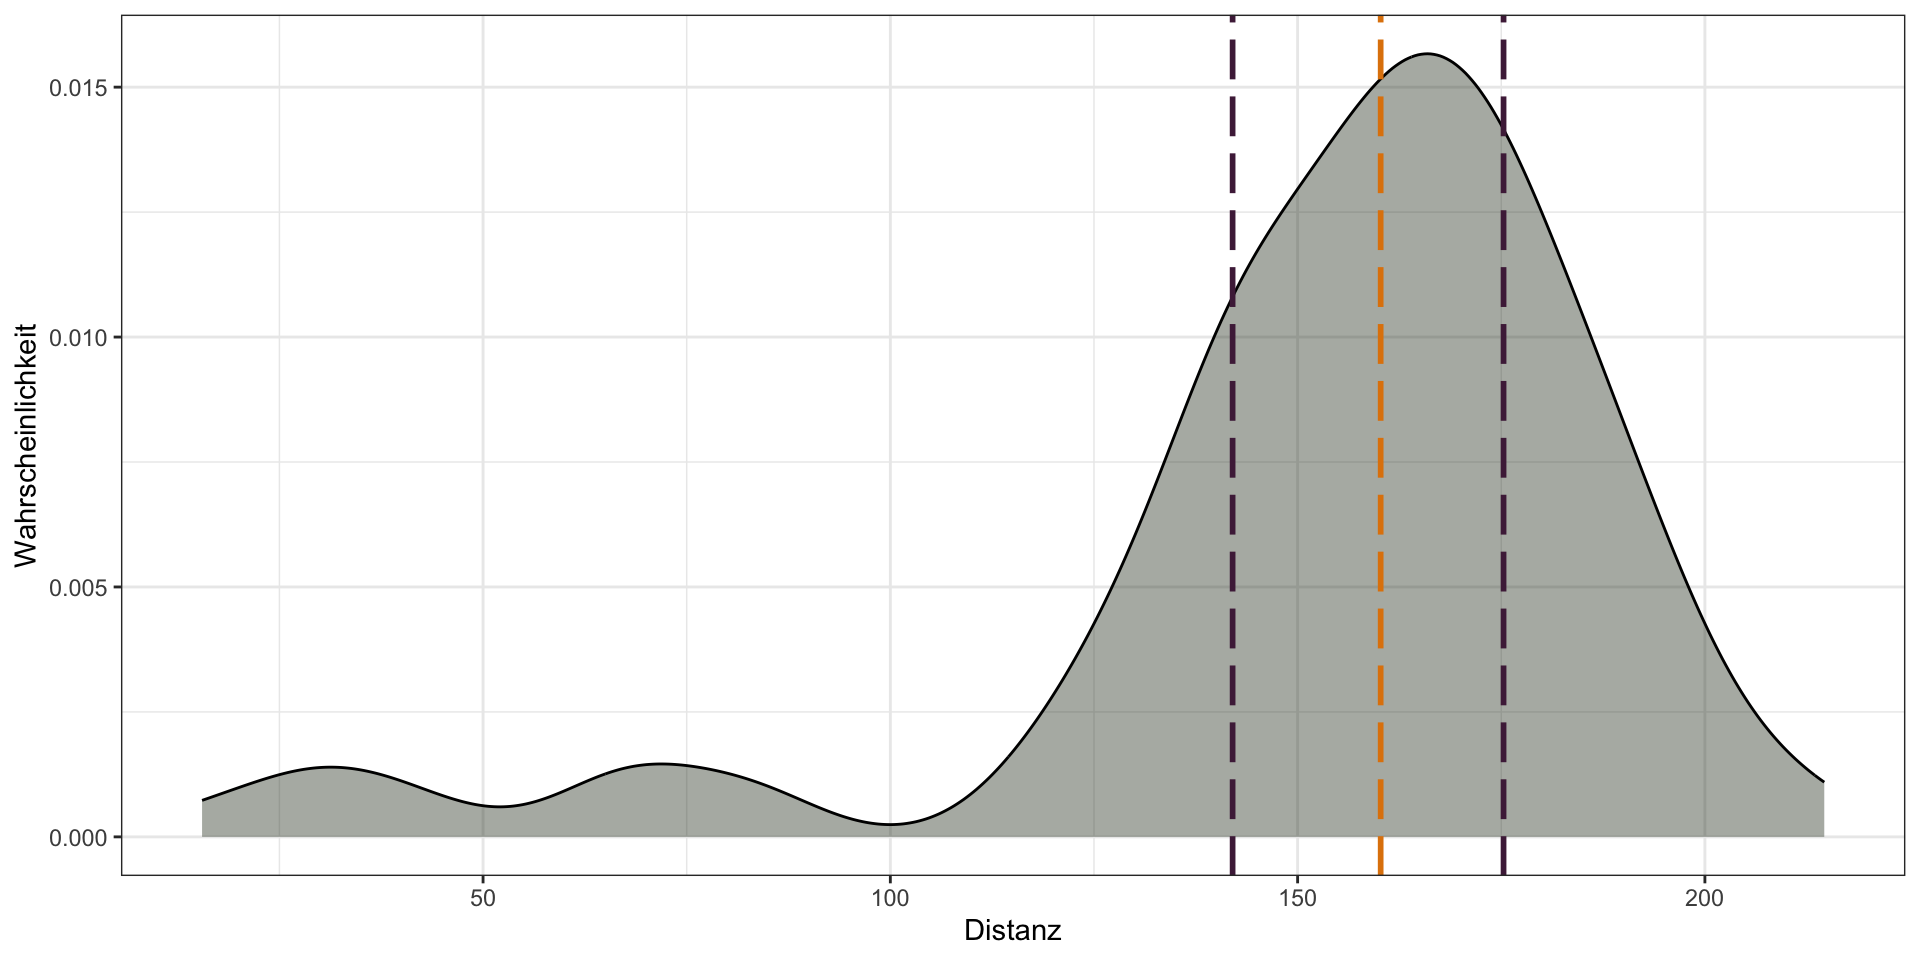
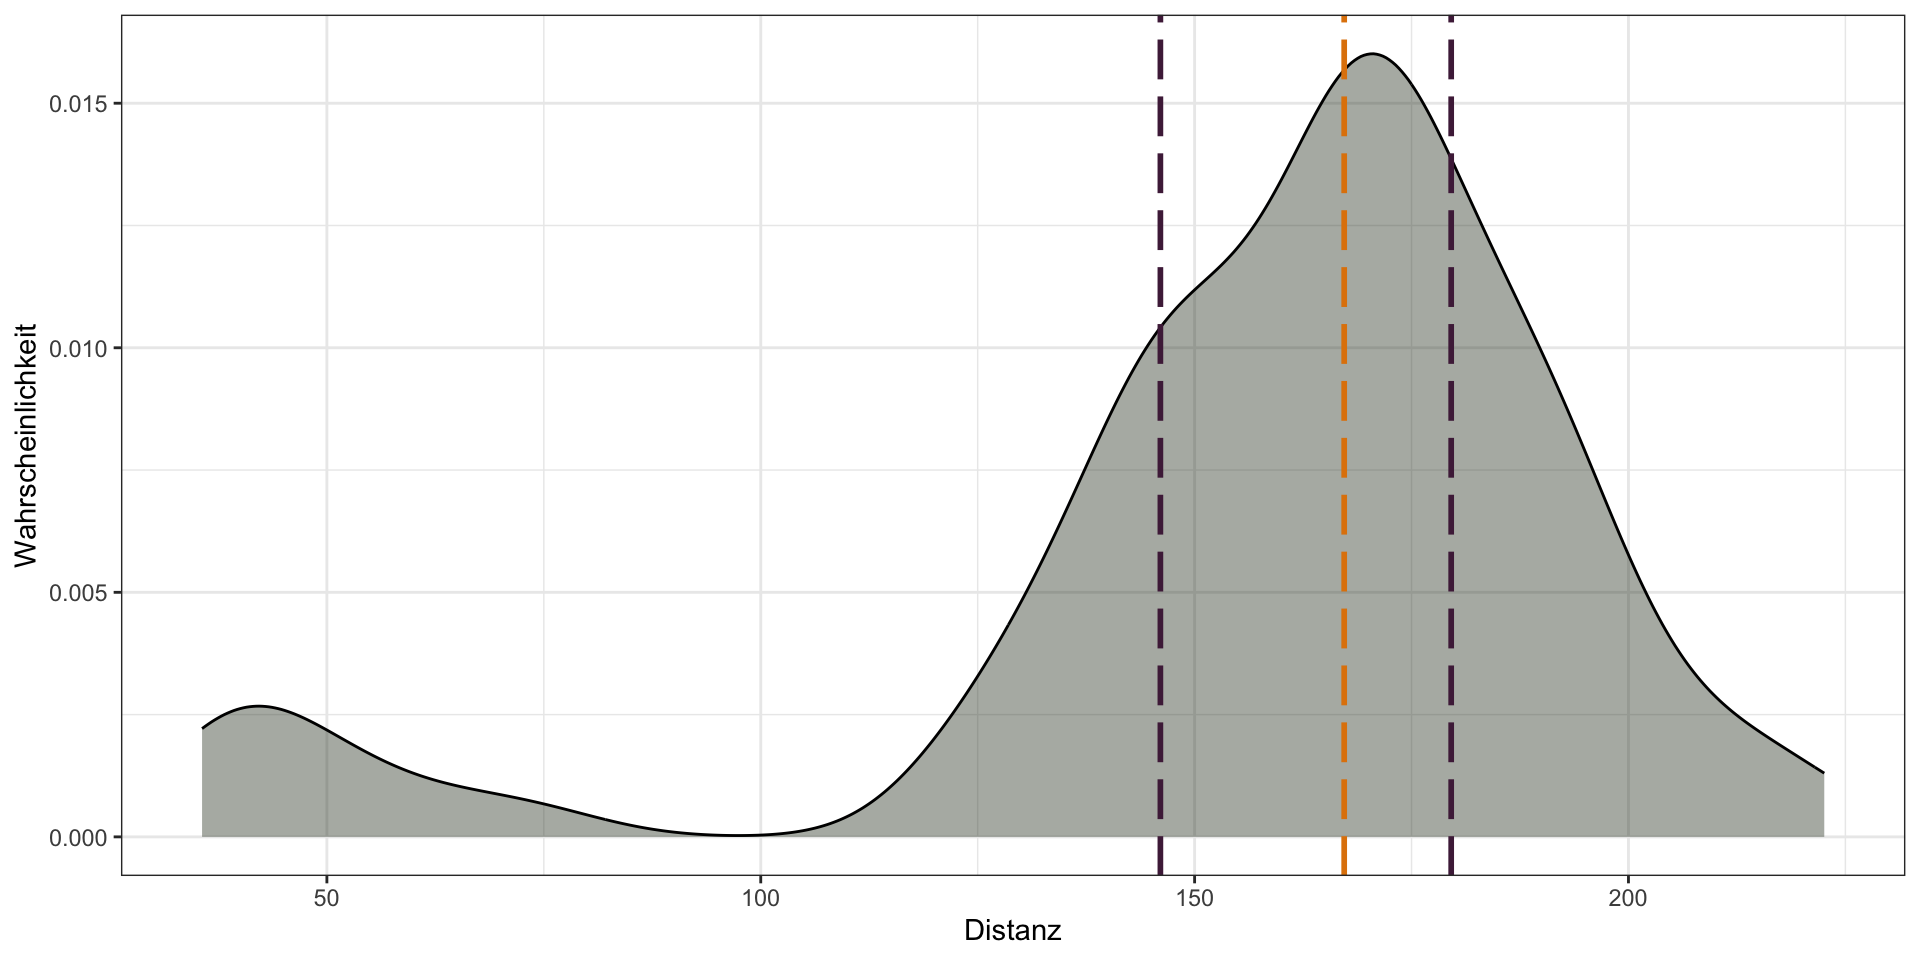
finish slides w3

diff --git a/docs/Sitzung_3.html b/docs/Sitzung_3.html
@@ -271,106 +271,106 @@ Eva Scheel
 <div class="cell">
 <div class="cell-output cell-output-stdout">
 <pre><code>    groesse_cm
-1        144.6
-2        162.4
-3        118.1
-4        128.5
-5        146.8
-6        134.2
-7        128.3
-8        147.1
-9        144.5
-10       142.3
-11       130.8
-12       131.9
-13       138.6
-14       138.0
-15       135.6
-16       127.0
-17       119.8
-18       126.5
-19       134.4
-20       149.2
-21       139.6
-22       141.8
-23       145.0
-24       145.3
-25       142.0
-26       138.4
-27       129.9
-28       133.4
-29       124.7
-30       139.9
-31       139.0
-32       140.0
-33       138.1
-34       151.4
-35       129.9
-36       149.2
-37       141.5
-38       141.7
-39       141.7
-40       134.4
-41       144.1
-42       115.9
-43       129.3
-44       135.1
-45       139.2
-46       151.7
-47       148.2
-48       129.6
-49       138.1
-50       132.8
-51       154.6
-52       123.9
-53       132.4
-54       139.1
-55       130.4
-56       124.9
-57       130.7
-58       130.3
-59       151.7
-60       143.1
-61       148.1
-62       131.5
-63       134.6
-64       159.4
-65       139.6
-66       144.5
-67       133.1
-68       123.5
-69       136.0
-70       143.9
-71       154.5
-72       140.6
-73       136.1
-74       147.1
-75       129.5
-76       120.9
-77       137.4
-78       134.7
-79       136.6
-80       128.9
-81       138.4
-82       150.7
-83       121.4
-84       131.7
-85       142.1
-86       159.2
-87       142.8
-88       132.8
-89       132.1
-90       145.2
-91       133.7
-92       137.9
-93       130.4
-94       156.6
-95       153.1
-96       137.9
-97       144.4
-98       141.8
-99       146.4
-100      137.1</code></pre>
+1        144.3
+2        142.1
+3        133.0
+4        130.3
+5        146.9
+6        128.7
+7        137.5
+8        133.2
+9        134.0
+10       139.2
+11       130.7
+12       157.1
+13       141.4
+14       124.0
+15       135.9
+16       123.6
+17       139.2
+18       146.4
+19       131.6
+20       143.4
+21       132.6
+22       141.9
+23       140.0
+24       147.8
+25       139.2
+26       139.6
+27       147.2
+28       126.9
+29       130.2
+30       147.2
+31       146.2
+32       131.9
+33       150.2
+34       155.7
+35       140.7
+36       146.7
+37       134.4
+38       133.0
+39       137.5
+40       123.5
+41       125.8
+42       138.6
+43       135.4
+44       147.4
+45       151.6
+46       146.0
+47       147.7
+48       148.9
+49       143.7
+50       135.6
+51       139.1
+52       132.4
+53       142.3
+54       153.5
+55       133.4
+56       147.8
+57       122.7
+58       121.3
+59       143.1
+60       154.1
+61       122.2
+62       139.4
+63       146.3
+64       126.7
+65       137.8
+66       145.8
+67       154.3
+68       144.2
+69       129.0
+70       141.4
+71       154.8
+72       135.1
+73       136.7
+74       125.7
+75       138.1
+76       161.2
+77       150.0
+78       138.0
+79       131.4
+80       145.0
+81       131.0
+82       133.8
+83       133.7
+84       144.0
+85       148.4
+86       147.5
+87       135.0
+88       136.3
+89       145.6
+90       127.8
+91       120.1
+92       120.3
+93       149.3
+94       146.0
+95       149.7
+96       149.8
+97       102.8
+98       135.2
+99       145.5
+100      128.9</code></pre>
 </div>
 </div>
 </div><div class="column">
@@ -379,10 +379,10 @@ Eva Scheel
 <pre><code>[1] "Anzahl Schüler:innen: 100"</code></pre>
 </div>
 <div class="cell-output cell-output-stdout">
-<pre><code>[1] "Höchstwert: 115.9"</code></pre>
+<pre><code>[1] "Höchstwert: 102.8"</code></pre>
 </div>
 <div class="cell-output cell-output-stdout">
-<pre><code>[1] "Tiefstwert: 162.4"</code></pre>
+<pre><code>[1] "Tiefstwert: 161.2"</code></pre>
 </div>
 </div>
 </div></div>
@@ -395,7 +395,7 @@ Eva Scheel
 <div class="cell">
 <div class="code-copy-outer-scaffold"><div class="sourceCode cell-code" id="cb5"><pre class="sourceCode numberSource r number-lines code-with-copy"><code class="sourceCode r"><span id="cb5-1"><a></a><span class="fu">mean</span>(heights<span class="sc">$</span>groesse_cm)</span></code></pre></div><button title="Copy to Clipboard" class="code-copy-button"><i class="bi"></i></button></div>
 <div class="cell-output cell-output-stdout">
-<pre><code>[1] 138.168</code></pre>
+<pre><code>[1] 138.791</code></pre>
 </div>
 </div>
 <p>Bezeichnung: <span class="math inline">\(M=`m`\)</span> oder <span class="math inline">\(\bar{x}\)</span></p>
@@ -423,21 +423,21 @@ Eva Scheel
 </div>
 <div class="code-copy-outer-scaffold"><div class="sourceCode cell-code" id="cb9"><pre class="sourceCode numberSource r number-lines code-with-copy"><code class="sourceCode r"><span id="cb9-1"><a></a>sorted_heights</span></code></pre></div><button title="Copy to Clipboard" class="code-copy-button"><i class="bi"></i></button></div>
 <div class="cell-output cell-output-stdout">
-<pre><code>  [1] 115.9 118.1 119.8 120.9 121.4 123.5 123.9 124.7 124.9 126.5 127.0 128.3
- [13] 128.5 128.9 129.3 129.5 129.6 129.9 129.9 130.3 130.4 130.4 130.7 130.8
- [25] 131.5 131.7 131.9 132.1 132.4 132.8 132.8 133.1 133.4 133.7 134.2 134.4
- [37] 134.4 134.6 134.7 135.1 135.6 136.0 136.1 136.6 137.1 137.4 137.9 137.9
- [49] 138.0 138.1 138.1 138.4 138.4 138.6 139.0 139.1 139.2 139.6 139.6 139.9
- [61] 140.0 140.6 141.5 141.7 141.7 141.8 141.8 142.0 142.1 142.3 142.8 143.1
- [73] 143.9 144.1 144.4 144.5 144.5 144.6 145.0 145.2 145.3 146.4 146.8 147.1
- [85] 147.1 148.1 148.2 149.2 149.2 150.7 151.4 151.7 151.7 153.1 154.5 154.6
- [97] 156.6 159.2 159.4 162.4</code></pre>
+<pre><code>  [1] 102.8 120.1 120.3 121.3 122.2 122.7 123.5 123.6 124.0 125.7 125.8 126.7
+ [13] 126.9 127.8 128.7 128.9 129.0 130.2 130.3 130.7 131.0 131.4 131.6 131.9
+ [25] 132.4 132.6 133.0 133.0 133.2 133.4 133.7 133.8 134.0 134.4 135.0 135.1
+ [37] 135.2 135.4 135.6 135.9 136.3 136.7 137.5 137.5 137.8 138.0 138.1 138.6
+ [49] 139.1 139.2 139.2 139.2 139.4 139.6 140.0 140.7 141.4 141.4 141.9 142.1
+ [61] 142.3 143.1 143.4 143.7 144.0 144.2 144.3 145.0 145.5 145.6 145.8 146.0
+ [73] 146.0 146.2 146.3 146.4 146.7 146.9 147.2 147.2 147.4 147.5 147.7 147.8
+ [85] 147.8 148.4 148.9 149.3 149.7 149.8 150.0 150.2 151.6 153.5 154.1 154.3
+ [97] 154.8 155.7 157.1 161.2</code></pre>
 </div>
 </div>
 <div class="cell">
 <div class="code-copy-outer-scaffold"><div class="sourceCode cell-code" id="cb11"><pre class="sourceCode numberSource r number-lines code-with-copy"><code class="sourceCode r"><span id="cb11-1"><a></a><span class="fu">median</span>(heights<span class="sc">$</span>groesse_cm)</span></code></pre></div><button title="Copy to Clipboard" class="code-copy-button"><i class="bi"></i></button></div>
 <div class="cell-output cell-output-stdout">
-<pre><code>[1] 138.1</code></pre>
+<pre><code>[1] 139.2</code></pre>
 </div>
 </div>
 
@@ -464,9 +464,9 @@ Eva Scheel
 <div class="cell-output cell-output-stdout">
 <pre><code>
    Biologie      Chemie     Deutsch    Englisch Französisch  Mathematik 
-         17          20          20          14          11          22 
+         14          14          14          18          13          16 
       Musik      Physik       Sport 
-         17          17          12 </code></pre>
+         25          17          19 </code></pre>
 </div>
 </div>
 <p>Anzahl Schüler:innen pro Hobby:</p>
@@ -474,9 +474,9 @@ Eva Scheel
 <div class="cell-output cell-output-stdout">
 <pre><code>
      Backgammon       Hula_Hoop      Kanufahren Modelleisenbahn         Posaune 
-             22              18              29              30              35 
+             18              21              34              27              23 
    Seilspringen 
-             16 </code></pre>
+             27 </code></pre>
 </div>
 </div>
 <p><span class="absolute" style="font-size: 70%; color: #6f5c7dea; bottom: 10px; ">*Erfundener Datensatz!</span></p>
@@ -496,19 +496,19 @@ Eva Scheel
 <div class="cell-output cell-output-stdout">
 <pre><code>                 
                   Biologie Chemie Deutsch Englisch Französisch Mathematik Musik
-  Backgammon             2      4       2        0           3          5     2
-  Hula_Hoop              2      3       1        3           1          4     1
-  Kanufahren             1      6       4        3           3          2     3
-  Modelleisenbahn        3      3       4        3           1          2     7
-  Posaune                6      3       7        4           1          8     2
-  Seilspringen           3      1       2        1           2          1     2
+  Backgammon             1      1       0        2           3          2     5
+  Hula_Hoop              1      0       3        4           1          2     4
+  Kanufahren             4      0       2        7           3          3     8
+  Modelleisenbahn        3      2       3        1           2          4     5
+  Posaune                1      3       3        1           3          2     2
+  Seilspringen           4      8       3        3           1          3     1
                  
                   Physik Sport
-  Backgammon           3     1
-  Hula_Hoop            2     1
+  Backgammon           1     3
+  Hula_Hoop            3     3
   Kanufahren           4     3
-  Modelleisenbahn      4     3
-  Posaune              2     2
+  Modelleisenbahn      2     5
+  Posaune              5     3
   Seilspringen         2     2</code></pre>
 </div>
 </div>
@@ -755,6 +755,7 @@ SD = \sqrt{\frac{\sum (x-\bar{x})^2}{n-1}}
 <section id="nächstes-mal" class="slide level2">
 <h2>Nächstes Mal</h2>
 <ul>
+<li>Online! Zoom-link folgt</li>
 <li>AB2</li>
 <li>mehr über die Normalverteilung und Wahrscheinlichkeitsverteilungen</li>
 <li>Ausreißer, Normalisierungsmaße</li>
